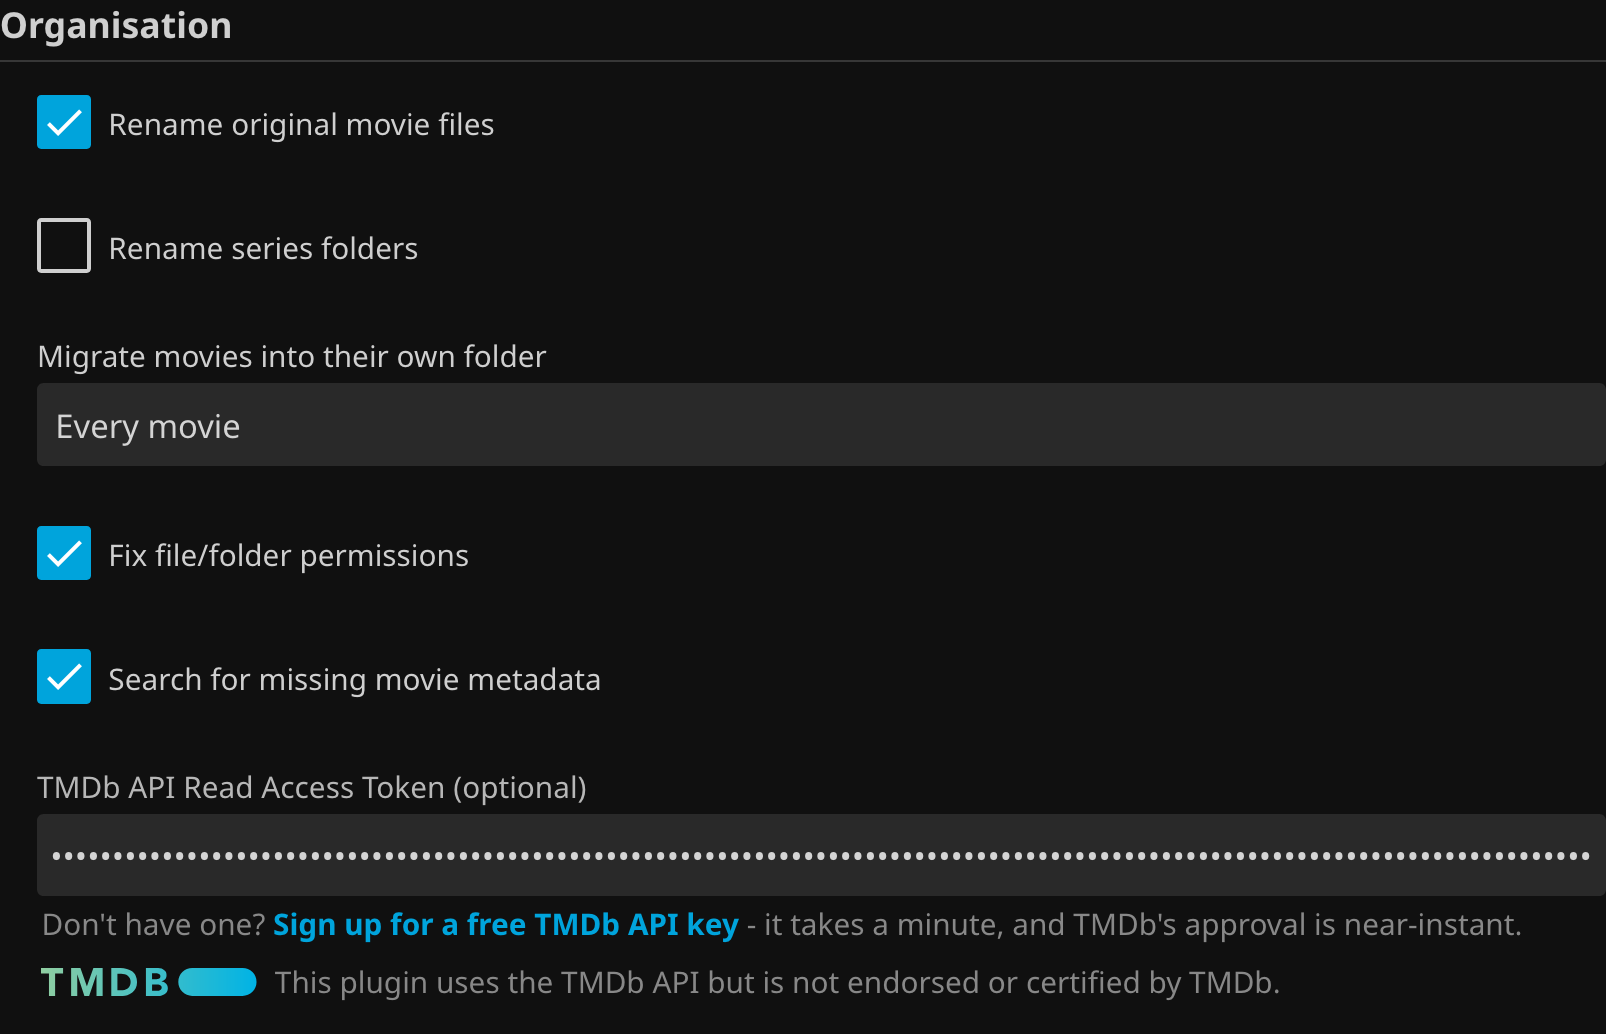
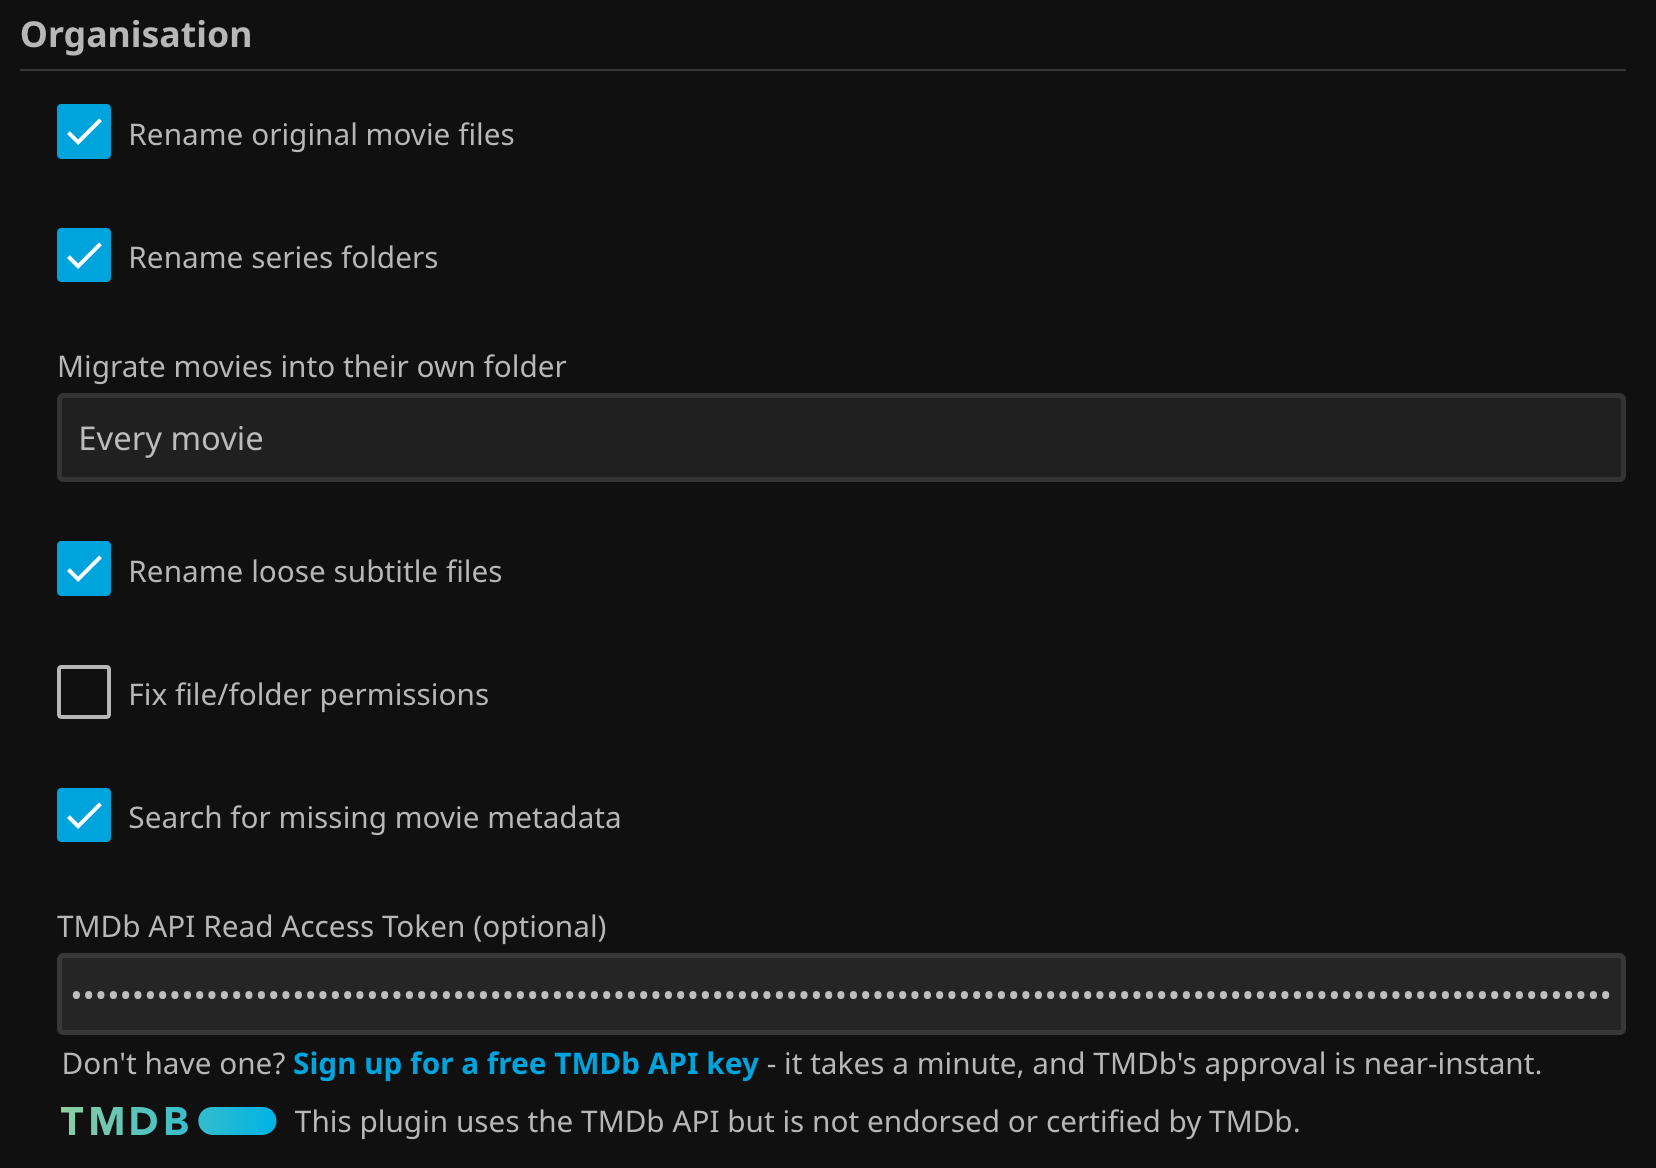
Refresh docs/screenshots and README for this session's features
- New Scanning settings screenshot (previously had none), reflecting
  the reorganized layout (general settings first, Libraries to scan
  nested below).
- Refreshed Organisation and Debugging screenshots to show the loose-
  subtitle-rename checkbox and the current single-file/folder debug
  picker.
- Rewrote the "Run against a single file" docs to match the actual
  mutually-exclusive file/folder selection behavior (two buttons, only
  one enabled at a time), and noted the subtitle-rename-count line in
  its result.
- Noted Verbose logging now surfaces the new-item watcher's own
  diagnostics.
- Brought the root README's Features/Configuration lists up to date -
  missing-metadata rescue, loose subtitle renaming, run-on-new-item,
  live statistics, and the debug picker were all missing entirely.

diff --git a/docs/configuration.html b/docs/configuration.html
@@ -67,6 +67,7 @@
 
   <div class="setting-group">
     <h3>Scanning</h3>
+    <img class="screenshot inline" src="assets/screenshots/settings-scanning.png" alt="Scanning settings group, with library-independent settings first and Libraries to scan as a nested sub-group below">
 
     <div class="setting">
       <span class="name">Trigger a library scan after changes</span><span class="default">default: on</span>
@@ -83,7 +84,10 @@
         added to the library — waiting for that item's own metadata refresh to actually finish first, not
         just the moment it's first discovered on disk (before its title/year/provider ids are resolved).
         Several items added in a burst (e.g. a bulk import) are debounced into a single run, not one run per
-        item.
+        item. Only reacts to items genuinely new to Jellyfin — a routine periodic refresh of something
+        already in the library is deliberately ignored, so it never causes a run all on its own. Turn on
+        "Verbose logging" below to see exactly when this is watching a new item and when it triggers (or
+        skips triggering because a run is already in progress).
       </p>
     </div>
 
@@ -332,7 +336,7 @@
 
   <div class="setting-group">
     <h3>Debugging and Testing</h3>
-    <img class="screenshot inline" src="assets/screenshots/settings-debugging.png" alt="Debugging and Testing settings group">
+    <img class="screenshot inline" src="assets/screenshots/settings-debugging.png" alt="Debugging and Testing settings group, showing the single-file browser with its Run for selected item and Run for this folder buttons">
 
     <div class="setting">
       <span class="name">Dry run</span><span class="default">default: off</span>
@@ -356,13 +360,17 @@
       <span class="name">Run against a single file</span><span class="default">not a setting</span>
       <p>
         A small file browser, scoped to your configured libraries' own root folders — never the server's
-        whole filesystem. Browse to one movie file and run this plugin's own processing against just that
-        item: title resolution, missing-metadata search (if enabled), trailer/theme song fetch, and rename/
-        migrate. Or click "Run for this folder" to run against whichever folder you're currently browsing —
-        it resolves to the one video file inside it automatically, which is what you want to test something
-        like loose-subtitle renaming. Useful for seeing exactly how a specific file is handled without
-        waiting on, or otherwise affecting, a full scan. This is a real run, not a dry run, unless "Dry run"
-        above is also checked.
+        whole filesystem. Clicking a movie file selects it, enabling "Run for selected item" to run this
+        plugin's own processing against just that item: title resolution, missing-metadata search (if
+        enabled), trailer/theme song fetch, and rename/migrate. Browsing into a folder selects that folder
+        instead, enabling "Run for this folder" — it resolves to the one video file inside automatically,
+        which is what you want to test something like loose-subtitle renaming (only relevant once a movie
+        already has its own dedicated folder). Only one of the two is ever selected at a time: picking a file
+        clears a folder selection and vice versa, so a button is only ever enabled while its own kind of
+        selection is the current one — never left over from a folder you've since navigated away from. The
+        result reports things like how many loose subtitles were renamed, alongside the trailer/theme song
+        outcome. Useful for seeing exactly how a specific file is handled without waiting on, or otherwise
+        affecting, a full scan. This is a real run, not a dry run, unless "Dry run" above is also checked.
       </p>
     </div>
   </div>

diff --git a/README.md b/README.md
@@ -45,14 +45,27 @@ from this repository; this section stays as a record of where the plugin came fr
   season subfolders to Jellyfin's canonical `Season NN` naming, fixing a messy release-style folder name (tags,
   resolution, season ranges, ...) that confuses Jellyfin's own poster match and displayed title even when trailer
   search itself already works fine. Episode files are never touched.
+- **Loose subtitle renaming** - detects a release-named subtitle file sitting directly in a movie's own folder
+  (rather than matching the movie's own filename) and renames it to match, so Jellyfin recognizes it as an
+  external subtitle.
+- **Missing-metadata rescue** - for a movie Jellyfin has no metadata match for at all (an oddly-named release that
+  defeats Jellyfin's own matching even though the real title is findable once release noise is stripped),
+  searches using this plugin's own cleaned-up title and applies a match, but only when it's confident - checked
+  against the candidate's title, its actual runtime via `ffprobe`, and its year, optionally cross-checked against
+  TMDb's own localized titles too.
 - **Theme songs** - optionally fetches a local `theme.mp3` too, looked up on
   [ThemerrDB](https://github.com/LizardByte/ThemerrDB) (the same curated database the
   [Themerr-jellyfin](https://github.com/LizardByte/Themerr-jellyfin) plugin uses) and downloaded through this
   plugin's own hardened `yt-dlp` pipeline instead of Themerr's less reliable downloader.
+- **Runs on its own schedule, or the moment a new item is added** - in addition to a manual run or its own
+  schedule, can optionally trigger a run as soon as a newly added movie/series' own metadata refresh finishes,
+  debounced so a bulk import triggers one run, not one per item.
 - **Cookies support** for authenticated/age-restricted YouTube access.
 - **Dry-run mode** to preview a run without downloading, renaming, or moving anything.
-- **Per-run summary** on the settings page - what was found, downloaded, skipped, or upgraded, and why a run
-  stopped early if it did.
+- **Live statistics and per-run summary** on the settings page - live per-library progress while a run is going,
+  overall coverage, and the last completed run's own numbers and stop reason.
+- **Debug picker** - a file/folder browser on the settings page to run this plugin's own processing against just
+  one movie, without waiting on or otherwise affecting a full scan.
 
 ## Requirements
 
@@ -75,16 +88,18 @@ from this repository; this section stays as a record of where the plugin came fr
 
 Settings are grouped on the plugin's page:
 
-- **Scanning** - which libraries to scan, whether to trigger a Jellyfin library scan after changes, and the
-  maximum trailer duration to accept.
+- **Scanning** - whether to trigger a Jellyfin library scan after changes or automatically when a new movie/series
+  is added, the maximum trailer duration to accept, and which libraries to scan.
 - **Audio/Video** - the minimum acceptable trailer resolution and audio-language preference, honored on every
   search, plus whether to also re-check/upgrade existing trailers that fall short.
-- **Organisation** - renaming the original movie file, migrating movies into their own folder, and cleaning up
-  series/season folder names.
+- **Organisation** - renaming the original movie file, migrating movies into their own folder, renaming loose
+  subtitle files, cleaning up series/season folder names, and the missing-metadata rescue search (with an
+  optional TMDb credential for localized-title matching).
 - **Theme Songs** - whether to also fetch a local theme song via ThemerrDB.
 - **Network** - a cookies file for authenticated/age-restricted access, pacing between requests, and the
   rate-limit retry behavior.
-- **Debugging and Testing** - dry-run mode and verbose per-candidate logging.
+- **Debugging and Testing** - dry-run mode, verbose per-candidate logging, and a file/folder browser to run
+  against a single movie.
 
 See the [full configuration reference](https://kino.sen-labs.org/configuration.html) for
 what every setting does, and the [documentation](https://kino.sen-labs.org/) generally for
